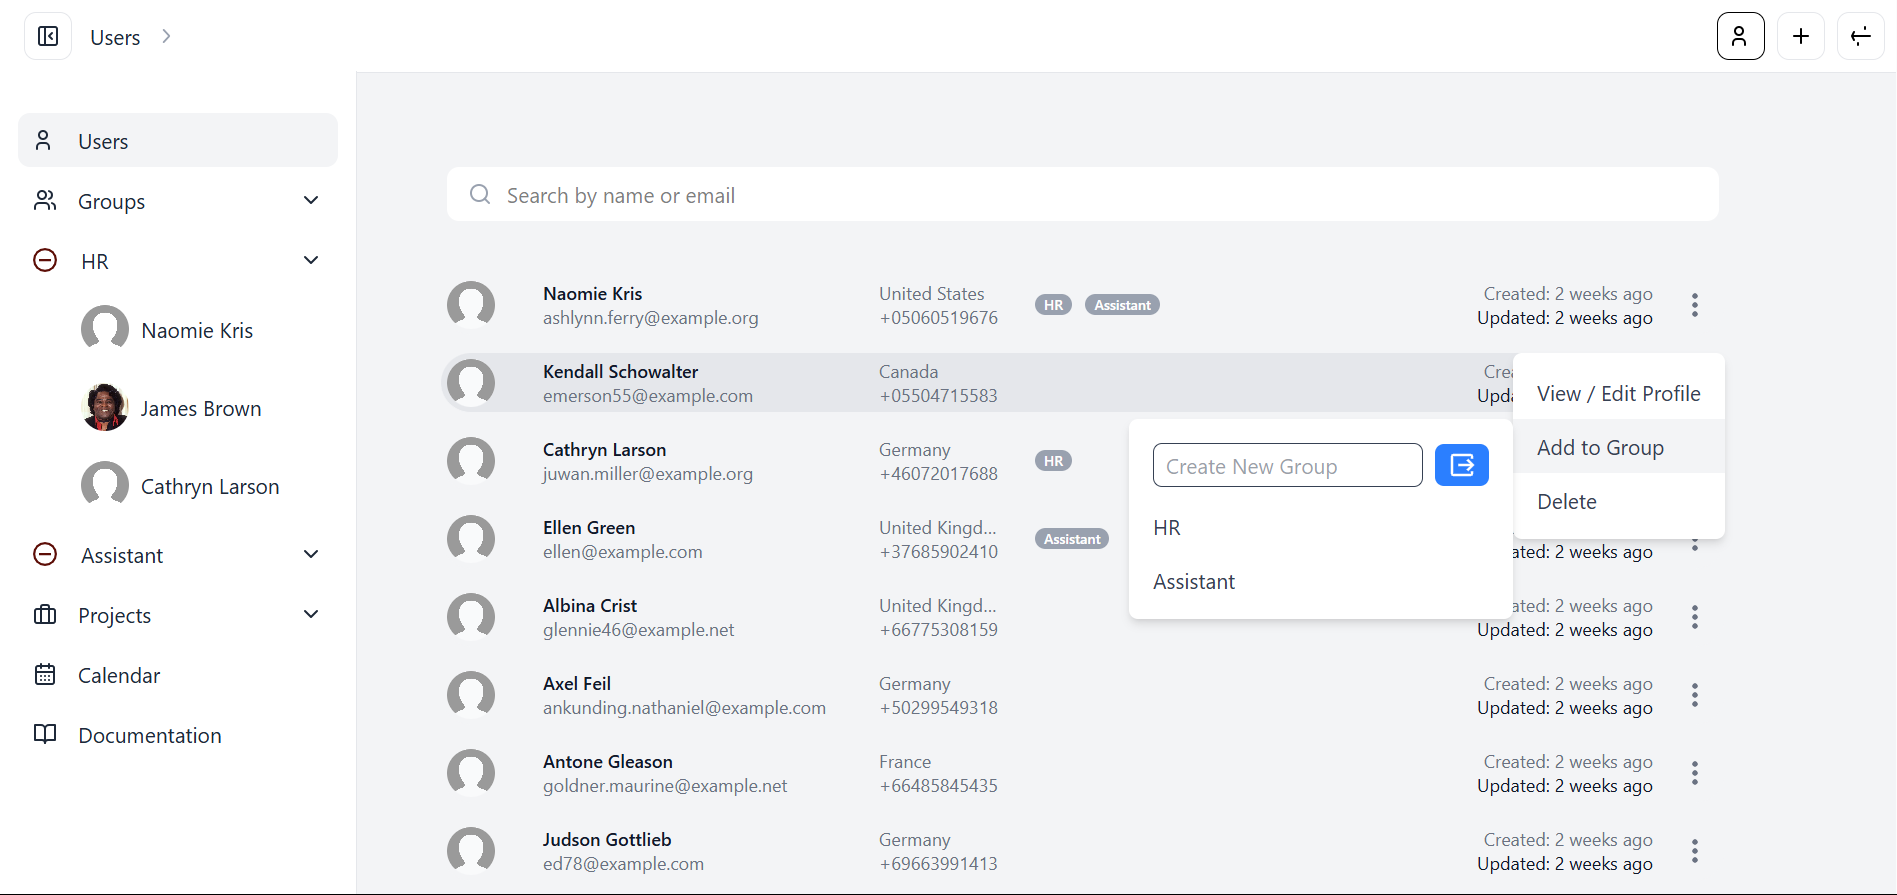
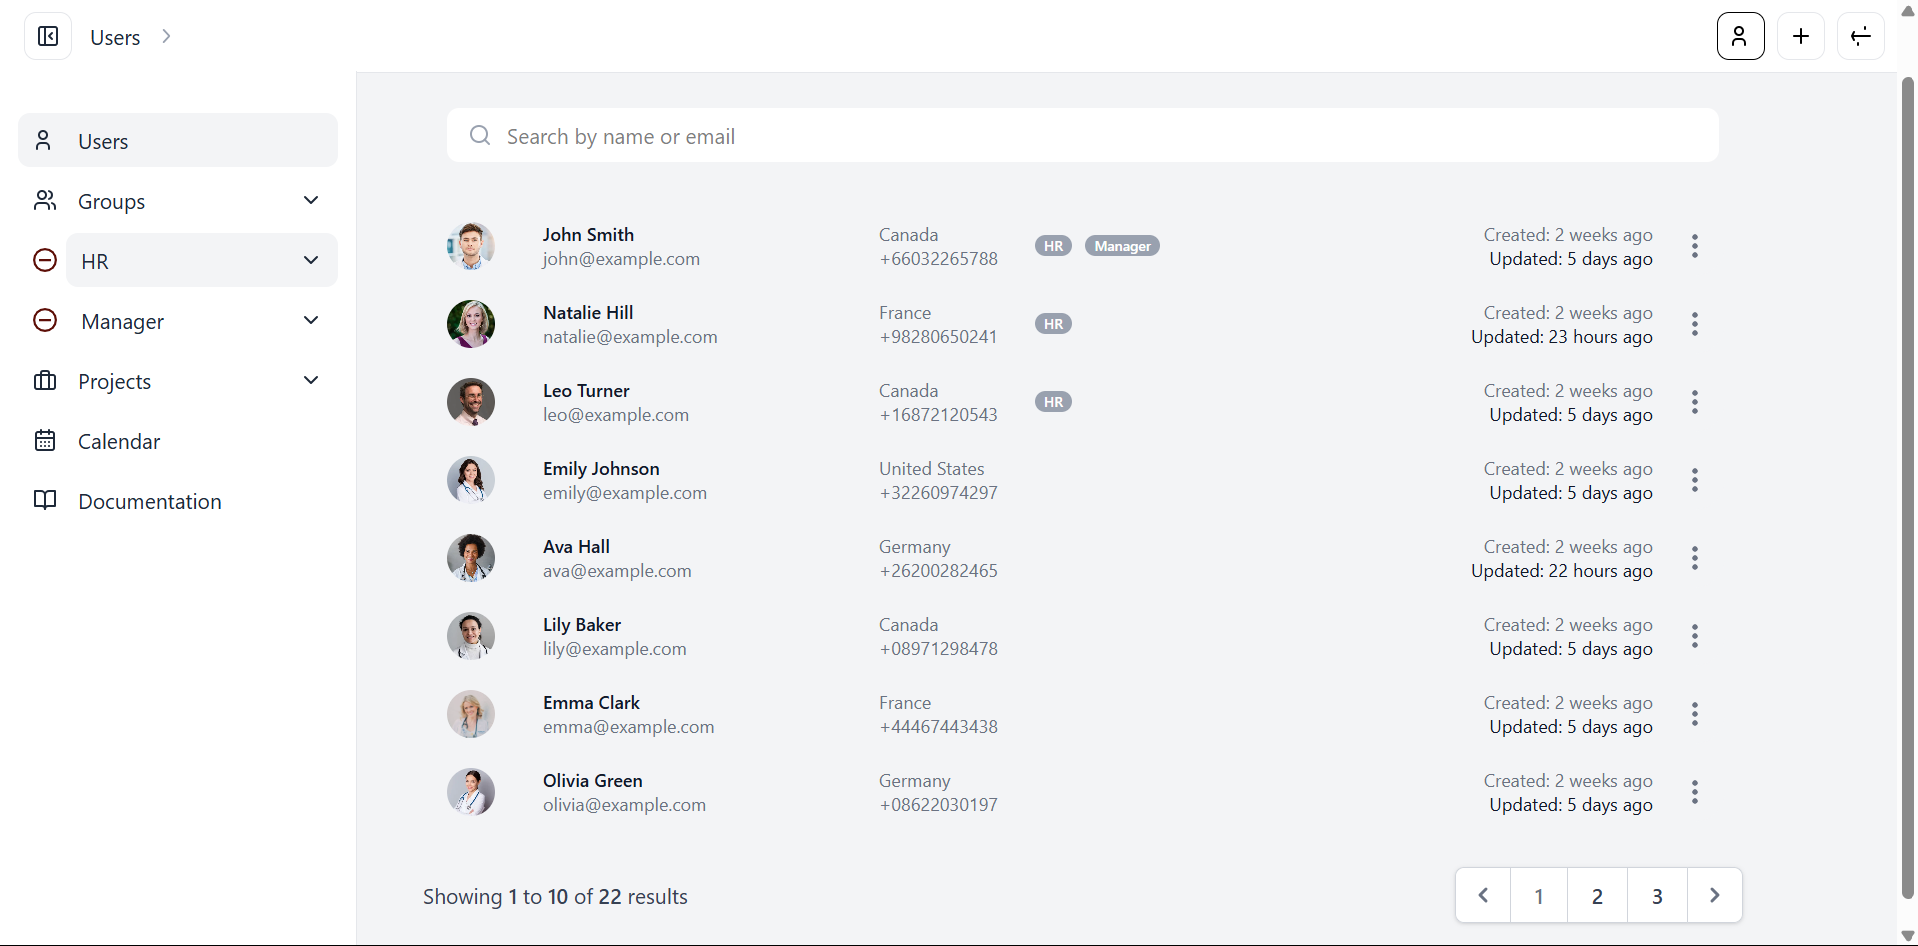
update readme screenshots

diff --git a/resources/js/calendar/state.js b/resources/js/calendar/state.js
@@ -276,14 +276,6 @@ export function connectToEventWebSocket() {
 		                container.appendChild(videoMessage);
 
                         // Remove video element when the track ends
-                        event.track.onended = () => {
-                            container.removeChild(videoMessage);
-                            peerConnection.close();
-                        };
-                        event.track.oninactive = () => {
-                            container.removeChild(videoMessage);
-                            peerConnection.close();
-                        };
                         event.track.onmute = () => {
                             container.removeChild(videoMessage);
                             peerConnection.close();

diff --git a/resources/views/Components/Calendar/Shared/event-modal-toolbar.blade.php b/resources/views/Components/Calendar/Shared/event-modal-toolbar.blade.php
@@ -9,6 +9,9 @@ canvas {
     canvas, video {
         max-width: 300px;
     }
+    video {
+        transform: scaleX(-1);
+    }
 }
 </style>
 

diff --git a/README.md b/README.md
@@ -4,6 +4,10 @@
 ![Create User Screenshot](./screenshots/create_user_screenshot.png)
 ![Users List Screenshot](./screenshots/users_list_groups_screenshot.png)
 ![Calendar Events Messaging Screenshot](./screenshots/calendar_events_messaging_screenshot.png)
+![Calendar Events Messaging Screenshot 2](./screenshots/calendar_event_group_audio.png)
+![Calendar Events Messaging Screenshot 2](./screenshots/calendar_event_webrtc.png)
+![Calendar Events Messaging Screenshot 2](./screenshots/calendar_event_webrtc_2.png)
+![Calendar Events Messaging Screenshot 2](./screenshots/calendar_event_messaging_screenshot_2.png)
 
 ---
 
